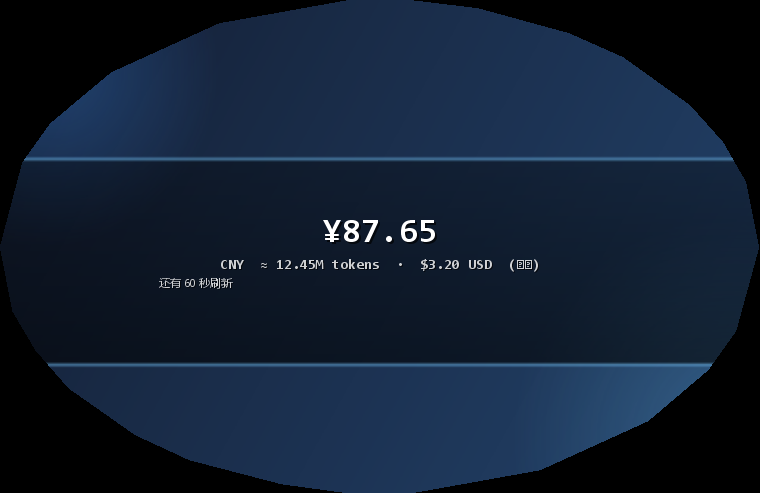
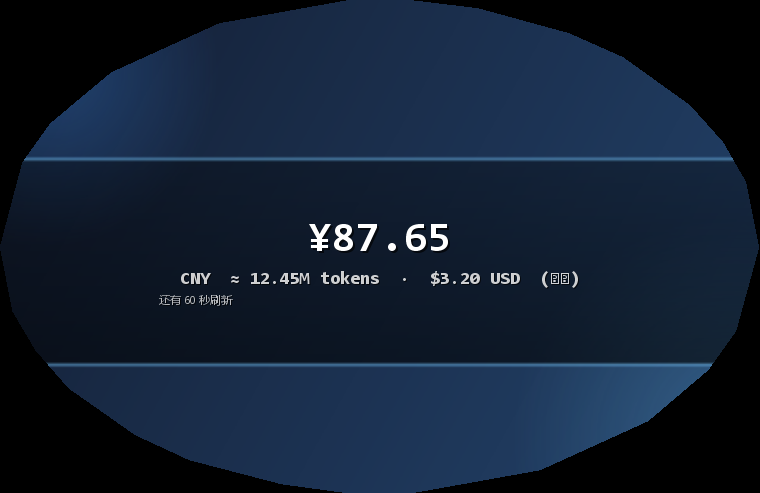
改：刷新倒计时不再挤动余额与副标题，且只在背景图/预设的情况下出现
位置
- 之前为了给倒计时让位，余额与副标题被整体上移了一点——这改变了它们原本的大小与位置，
  已撤回：余额与副标题仍旧占满整个框定区域，和加这条提示之前逐像素一致
- 倒计时改为占用文字下方的空白：先看渲染出来的文字实际占了哪里，然后把提示放在它下面，
  仍留在框内；框子刚好只够放下两行文字时没有这块空白，就落到框外紧贴下方——
  压住副标题比越出一两个像素更难看，而数字与副标题始终一个像素都不动
- 提示用比数字淡一档的 alpha，一眼能分清主次；黑阴影保证在任何图片上都读得清

出现条件
- 仍然只在背景图模式出现：默认的深色卡片布局没有它，也不会显示
- 自己上传背景图、或套用带背景图的预设（内置预设即是）时显示——自测里补了「套用预设后显示」

自测
- 「刷新倒计时」增加「套用预设后显示=true」，共六项断言
- 为「余额数字落在框定区域内」把判定收紧到接近纯白：倒计时是刻意比数字淡的，不该被当成数字；
  这样那条检查仍然只衡量余额本身
- 与加提示之前的渲染逐像素比对：只有 577 个像素变化，全部落在提示自己那一小块
  （x=159..233 y=295..306）；余额数字的包围盒 310..447 × 224..244 与副标题的都完全没变

Changed region(s): [[0.2118, 0.426, 0.7868, 0.6389]]

diff --git a/src/main/java/com/ruoyi/dstokencheck/ui/BalanceBoard.java b/src/main/java/com/ruoyi/dstokencheck/ui/BalanceBoard.java
@@ -99,6 +99,8 @@ public class BalanceBoard extends JFrame {
     /** The corner hint: font size before the user's font scale, and inset from the box corner. */
     private static final float HINT_FONT = 10.5f;
     private static final int HINT_INSET = 3;
+    /** Dimmer than the figure on purpose: a hint, not something to confuse with the balance. */
+    private static final int HINT_ALPHA = 180;
     /** Slack around the balance's hit area, in pixels. */
     private static final int HOVER_SLACK = 4;
     private static final float F_SMALL = 10.5f;
@@ -2090,21 +2092,15 @@ public class BalanceBoard extends JFrame {
             if (box == null) {
                 return;
             }
-            Rectangle2D.Float text = box;
-            if (!countdown.isEmpty()) {
-                // Reserve a strip along the bottom for the hint, so a long caption cannot run into
-                // it. Capped at a share of the box: in a shallow box the figure still wins.
-                float strip = Math.min(hintFont.getSize2D() + 2 * HINT_INSET, box.height * 0.3f);
-                if (box.height - strip >= 12) {
-                    text = new Rectangle2D.Float(box.x, box.y, box.width, box.height - strip);
-                }
-            }
+            // The balance and its caption own the whole framed box, exactly as they did before the
+            // hint existed: the countdown is placed around them, never the other way round.
+            Rectangle2D painted = null;
             if (!regionText.isEmpty() && textAlpha >= 0.02f) {
                 Graphics2D g2 = (Graphics2D) g.create();
                 try {
                     // The fade is applied to the text's own alpha, which is why it looks the same over
                     // any picture: it composites against whatever is behind it.
-                    BalanceTextRenderer.drawRegion(g2, regionText, regionSubtitle, text,
+                    painted = BalanceTextRenderer.drawRegion(g2, regionText, regionSubtitle, box,
                             Theme.alpha(regionTextColor, Math.round(255 * textAlpha)),
                             regionSubtitleColor == null ? null
                                     : Theme.alpha(regionSubtitleColor, Math.round(255 * textAlpha)),
@@ -2113,7 +2109,7 @@ public class BalanceBoard extends JFrame {
                     g2.dispose();
                 }
             }
-            paintCountdown(g, box);
+            paintCountdown(g, box, painted);
         }
 
         /**
@@ -2122,8 +2118,13 @@ public class BalanceBoard extends JFrame {
          * <p>Drawn from the box rather than from the text: a box the user sized is exactly the area
          * they are looking at, and the corner stays put whether the balance is short or long. The
          * shadow is what keeps it readable over whatever the picture happens to be there.
+         *
+         * <p>It prefers the free space under the caption, still inside the box. When the box is only
+         * just tall enough for the two lines there is no such space, and covering the caption would
+         * be worse than stepping a few pixels past the frame's edge — so there it sits just below the
+         * box instead. The balance and its caption keep every pixel they had either way.
          */
-        private void paintCountdown(Graphics g, Rectangle2D.Float box) {
+        private void paintCountdown(Graphics g, Rectangle2D.Float box, Rectangle2D painted) {
             if (countdown.isEmpty()) {
                 return;
             }
@@ -2133,13 +2134,23 @@ public class BalanceBoard extends JFrame {
                 g2.setRenderingHint(RenderingHints.KEY_TEXT_ANTIALIASING,
                         RenderingHints.VALUE_TEXT_ANTIALIAS_ON);
                 g2.setFont(hintFont);
+                FontMetrics fm = g2.getFontMetrics();
                 int x = Math.round(box.x) + HINT_INSET;
-                int y = Math.round(box.y + box.height) - HINT_INSET;
-                g2.setColor(new Color(0, 0, 0, 150));
-                g2.drawString(countdown, x + 1, y + 1);
-                // The user's own balance colour, a little softened: a hint, not the figure.
-                g2.setColor(Theme.alpha(regionTextColor, 205));
-                g2.drawString(countdown, x, y);
+                int floor = Math.round(box.y + box.height) - HINT_INSET;
+                Rectangle here = new Rectangle(x, floor - fm.getAscent(),
+                        fm.stringWidth(countdown), fm.getHeight());
+                int baseline = floor;
+                if (painted != null && painted.intersects(here)) {
+                    int below = Math.round(box.y + box.height) + fm.getAscent() + HINT_INSET;
+                    if (below < getHeight() - HINT_INSET) {
+                        baseline = below;
+                    }
+                }
+                g2.setColor(new Color(0, 0, 0, 170));
+                g2.drawString(countdown, x + 1, baseline + 1);
+                // The user's own balance colour, softened: a hint, and clearly not the figure.
+                g2.setColor(Theme.alpha(regionTextColor, HINT_ALPHA));
+                g2.drawString(countdown, x, baseline);
             } finally {
                 g2.dispose();
             }

diff --git a/src/main/java/com/ruoyi/dstokencheck/ui/BalanceTextRenderer.java b/src/main/java/com/ruoyi/dstokencheck/ui/BalanceTextRenderer.java
@@ -39,9 +39,9 @@ public final class BalanceTextRenderer {
      * the top part and the smaller line the bottom; both are fitted, so a narrow frame shrinks the
      * text rather than clipping it.
      */
-    public static void drawRegion(Graphics2D g2, String amount, String subtitle,
-                                  Rectangle2D box, Color color) {
-        drawRegion(g2, amount, subtitle, box, color, null, false);
+    public static Rectangle2D drawRegion(Graphics2D g2, String amount, String subtitle,
+                                         Rectangle2D box, Color color) {
+        return drawRegion(g2, amount, subtitle, box, color, null, false);
     }
 
     /**
@@ -53,18 +53,17 @@ public final class BalanceTextRenderer {
      * @param subtitleColor colour for the small line, or null to derive it from {@code color}
      * @param uiFont        true to set the lines in the UI font instead of the monospace one
      */
-    public static void drawRegion(Graphics2D g2, String amount, String subtitle,
+    public static Rectangle2D drawRegion(Graphics2D g2, String amount, String subtitle,
                                   Rectangle2D box, Color color, Color subtitleColor,
                                   boolean uiFont) {
         if (amount == null || amount.isEmpty() || color == null) {
-            return;
+            return null;
         }
         if (box.getWidth() < 2 || box.getHeight() < 2) {
-            return;
+            return null;
         }
         if (subtitle == null || subtitle.trim().isEmpty()) {
-            drawFitted(g2, amount, box, color, uiFont);
-            return;
+            return drawFitted(g2, amount, box, color, uiFont);
         }
 
         double subtitleHeight = Math.max(9, box.getHeight() * SUBTITLE_SHARE);
@@ -73,8 +72,7 @@ public final class BalanceTextRenderer {
         double gap = Math.max(1, box.getHeight() * 0.04);
         double amountHeight = box.getHeight() - subtitleHeight - gap;
         if (amountHeight < 8) {
-            drawFitted(g2, amount, box, color, uiFont);
-            return;
+            return drawFitted(g2, amount, box, color, uiFont);
         }
 
         Rectangle2D.Double amountBox = new Rectangle2D.Double(
@@ -82,11 +80,15 @@ public final class BalanceTextRenderer {
         Rectangle2D.Double subtitleBox = new Rectangle2D.Double(
                 box.getX(), box.getY() + amountHeight + gap, box.getWidth(), subtitleHeight);
 
-        drawFitted(g2, amount, amountBox, color, uiFont);
+        Rectangle2D drawn = drawFitted(g2, amount, amountBox, color, uiFont);
         // A little dimmer than the number, so the figure stays the thing you read first. The caller
         // may name the caption's colour instead — the hover line is the user's own colour.
-        drawFitted(g2, subtitle, subtitleBox,
+        Rectangle2D caption = drawFitted(g2, subtitle, subtitleBox,
                 subtitleColor == null ? Theme.alpha(color, 205) : subtitleColor, uiFont);
+        if (drawn == null) {
+            return caption;
+        }
+        return caption == null ? drawn : drawn.createUnion(caption);
     }
 
     /**
@@ -97,18 +99,18 @@ public final class BalanceTextRenderer {
      * @param box   target rectangle in the same coordinate space as {@code g2}
      * @param color foreground colour
      */
-    public static void drawFitted(Graphics2D g2, String text, Rectangle2D box, Color color) {
-        drawFitted(g2, text, box, color, false);
+    public static Rectangle2D drawFitted(Graphics2D g2, String text, Rectangle2D box, Color color) {
+        return drawFitted(g2, text, box, color, false);
     }
 
     /** As above, optionally in the UI font; see {@link #drawRegion(Graphics2D, String, String, Rectangle2D, Color, boolean)}. */
-    public static void drawFitted(Graphics2D g2, String text, Rectangle2D box, Color color,
+    public static Rectangle2D drawFitted(Graphics2D g2, String text, Rectangle2D box, Color color,
                                   boolean uiFont) {
         if (text == null || text.isEmpty() || color == null) {
-            return;
+            return null;
         }
         if (box.getWidth() < 2 || box.getHeight() < 2) {
-            return;
+            return null;
         }
 
         Graphics2D g = (Graphics2D) g2.create();
@@ -142,6 +144,8 @@ public final class BalanceTextRenderer {
 
             g.setColor(color);
             g.drawString(text, x, y);
+            // What was actually painted, so a caller can put something else beside it.
+            return new Rectangle2D.Double(x, y - fm.getAscent(), textWidth, fm.getHeight());
         } finally {
             g.dispose();
         }

diff --git a/src/main/java/com/ruoyi/dstokencheck/Main.java b/src/main/java/com/ruoyi/dstokencheck/Main.java
@@ -743,8 +743,9 @@ public final class Main {
                     int r = (rgb >> 16) & 0xFF;
                     int g = (rgb >> 8) & 0xFF;
                     int b = rgb & 0xFF;
-                    // White-ish: the balance figure (and its shadow is black, so it is excluded).
-                    if (r > 200 && g > 200 && b > 200) {
+                    // Near-white: the balance figure. Its shadow is black, and the refresh
+                    // countdown is deliberately dimmer than this, so neither is mistaken for it.
+                    if (r > 225 && g > 225 && b > 225) {
                         bright++;
                         if (x < x0 || x >= x1 || y < y0 || y >= y1) {
                             outside++;
@@ -1992,6 +1993,7 @@ public final class Main {
         boolean countedDown = false;
         boolean hiddenWhileHovering = false;
         boolean drawnInTheCorner = false;
+        boolean shownAfterPreset = false;
         java.io.File source = new java.io.File(AppConfig.directory(), "selftest-countdown.png");
         try {
             // --- no picture: the card layout has a footer, and nothing to put in the box ---
@@ -2068,6 +2070,34 @@ public final class Main {
                     pictureBoard[0].dispose();
                 }
             });
+
+            // --- a preset is the other way a picture gets in, and it shows the hint too ---
+            resetSelftestConfig();
+            java.util.List<Preset> presets = Preset.bundled();
+            if (!presets.isEmpty()) {
+                presets.get(0).applyTo(new AppConfig());
+            }
+            final BalanceBoard[] presetBoard = new BalanceBoard[1];
+            SwingUtilities.invokeAndWait(new Runnable() {
+                @Override
+                public void run() {
+                    DeepSeekClient demoClient = new DeepSeekClient();
+                    demoClient.setApiKey("sk-demo-000000000000000000000000");
+                    BalanceBoard b = new BalanceBoard(new AppConfig(), demoClient, null);
+                    b.setLocation(-4000, -4000);
+                    b.setVisible(true);
+                    b.start();
+                    presetBoard[0] = b;
+                }
+            });
+            Thread.sleep(700);
+            shownAfterPreset = !presetBoard[0].countdownText().isEmpty();
+            SwingUtilities.invokeAndWait(new Runnable() {
+                @Override
+                public void run() {
+                    presetBoard[0].dispose();
+                }
+            });
         } catch (Exception e) {
             System.out.println("FAIL  \u5237\u65b0\u5012\u8ba1\u65f6: " + e);
             return false;
@@ -2078,13 +2108,14 @@ public final class Main {
         }
 
         boolean ok = hiddenWithoutPicture && shownWithPicture && drawnInTheCorner
-                && countedDown && hiddenWhileHovering;
+                && countedDown && hiddenWhileHovering && shownAfterPreset;
         System.out.println((ok ? "PASS" : "FAIL") + "  \u5237\u65b0\u5012\u8ba1\u65f6"
                 + " (\u65e0\u80cc\u666f\u56fe\u65f6\u4e0d\u663e\u793a=" + hiddenWithoutPicture
                 + ", \u6709\u80cc\u666f\u56fe\u65f6\u663e\u793a=" + shownWithPicture
                 + ", \u753b\u5728\u5de6\u4e0b\u89d2=" + drawnInTheCorner
                 + ", \u786e\u5b9e\u5728\u8ba1\u65f6=" + countedDown
-                + ", \u60ac\u505c\u65f6\u9690\u85cf=" + hiddenWhileHovering + ")");
+                + ", \u60ac\u505c\u65f6\u9690\u85cf=" + hiddenWhileHovering
+                + ", \u5957\u7528\u9884\u8bbe\u540e\u663e\u793a=" + shownAfterPreset + ")");
         return ok;
     }
 

diff --git a/README.md b/README.md
@@ -170,10 +170,14 @@ java -jar target\dstokencheck.jar
 
 ![透明背景图](tools/background-window-alpha.png)
 
-**余额区左下角显示刷新倒计时**：套用背景图后，余额数字的左下角会实时显示「还有 N 秒刷新」，
-每秒更新，一眼就知道下一次刷新还有多久。它只在背景图模式下出现（卡片布局有底栏，不需要它），
-鼠标停在余额上切成时段显示时会跟着让位隐藏。这条提示会为它在框定区域底部留出一条位置，
-所以文字不会和它叠在一起。
+**余额区左下角显示刷新倒计时**：套用背景图后，余额显示区域的左下角会实时显示「还有 N 秒刷新」，
+每秒更新，一眼就知道下一次刷新还有多久。
+
+- 只在**背景图模式**出现，**默认的深色卡片上不会有**（卡片布局有底栏，也不需要它）；
+  自己上传背景图、或套用带背景图的预设（例如内置的「预设配置-蓝色大肥鱼」）时才显示。
+- **不会挤动余额数字和副标题**：它只占用文字下方的空白；框子刚好只够放下两行文字时，
+  它会落到框外紧贴下方，也不会压住副标题。它比数字淡一档，一眼能分清主次。
+- 鼠标停在余额上切成时段显示时，它跟着让位隐藏。
 
 ![刷新倒计时](tools/countdown.png)
 
